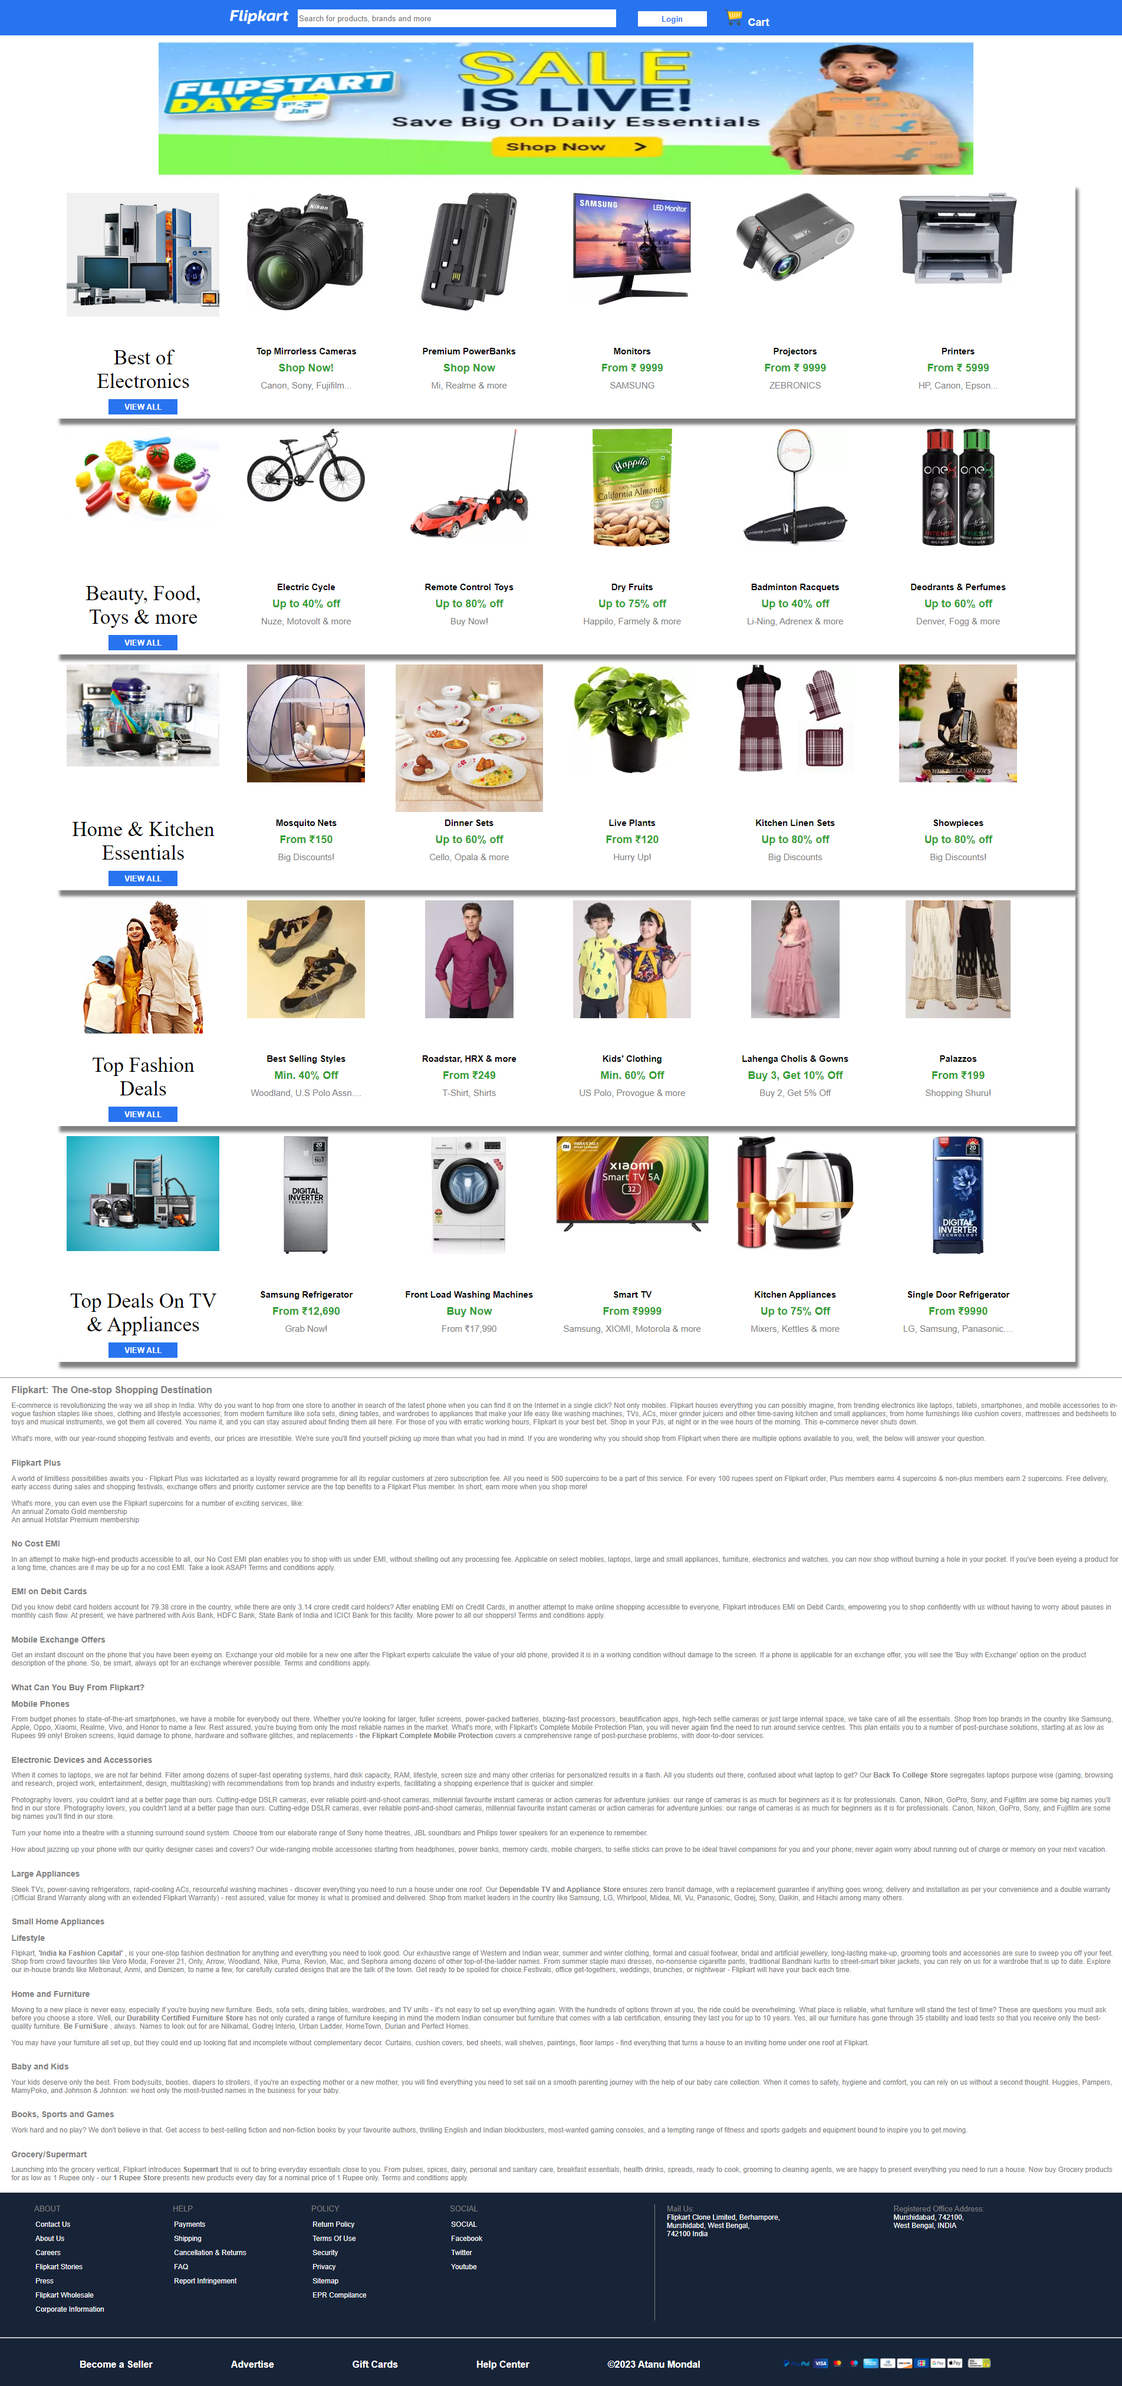
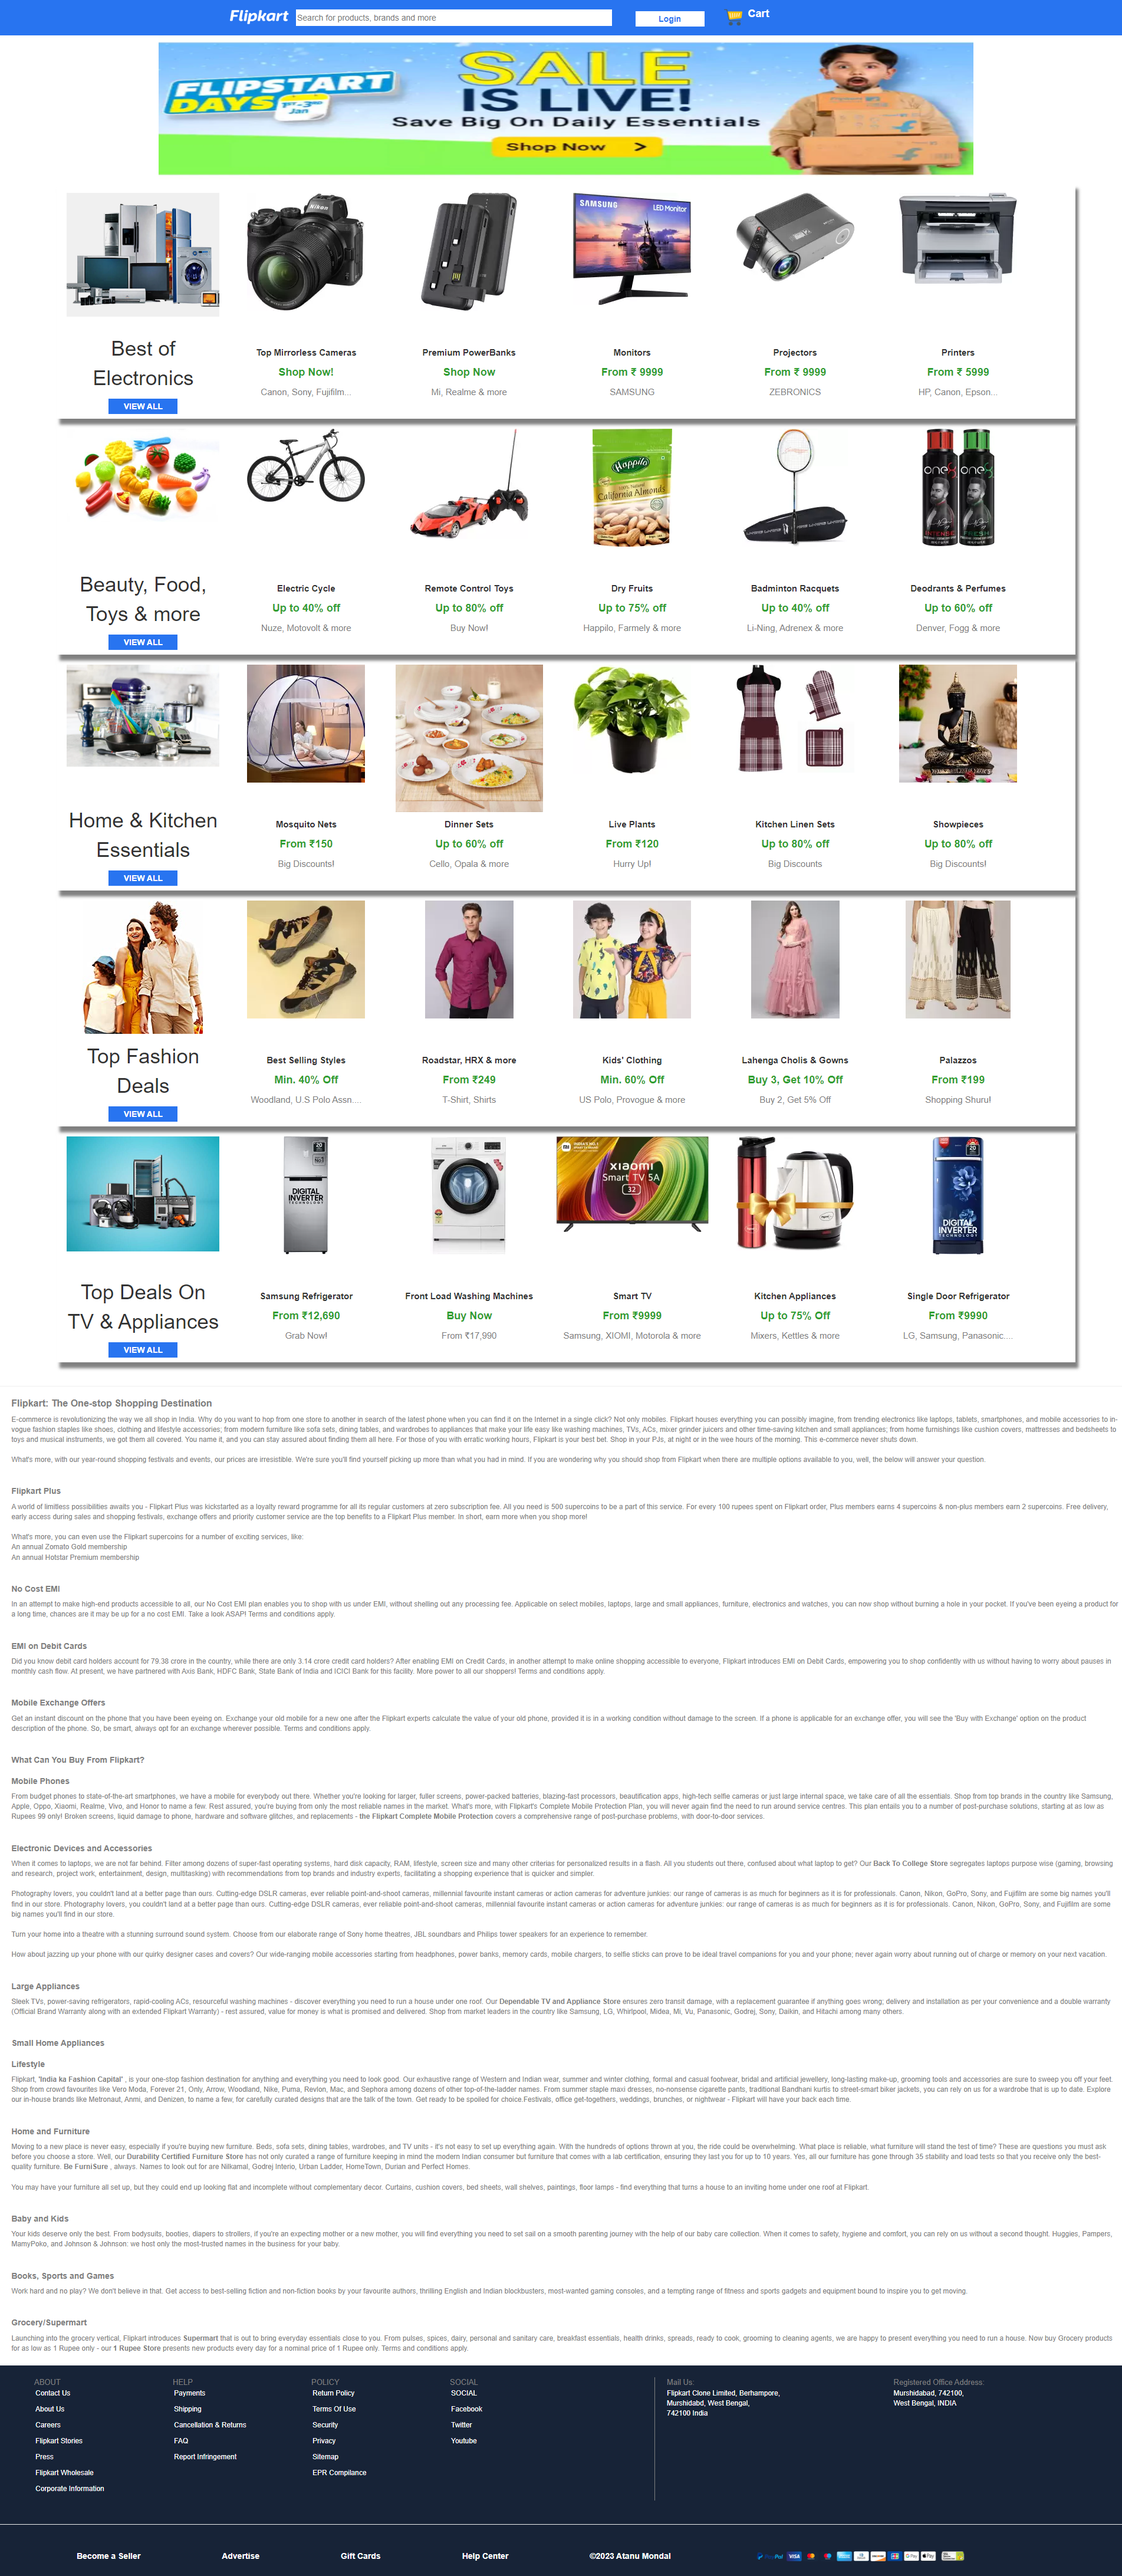
css page modified

diff --git a/flipkart.css b/flipkart.css
@@ -300,7 +300,7 @@ footer>hr {
 }
 
 .thead {
-    padding-right: 138px;
+    padding-right: 137px;
 }
 
 .thead>img {
